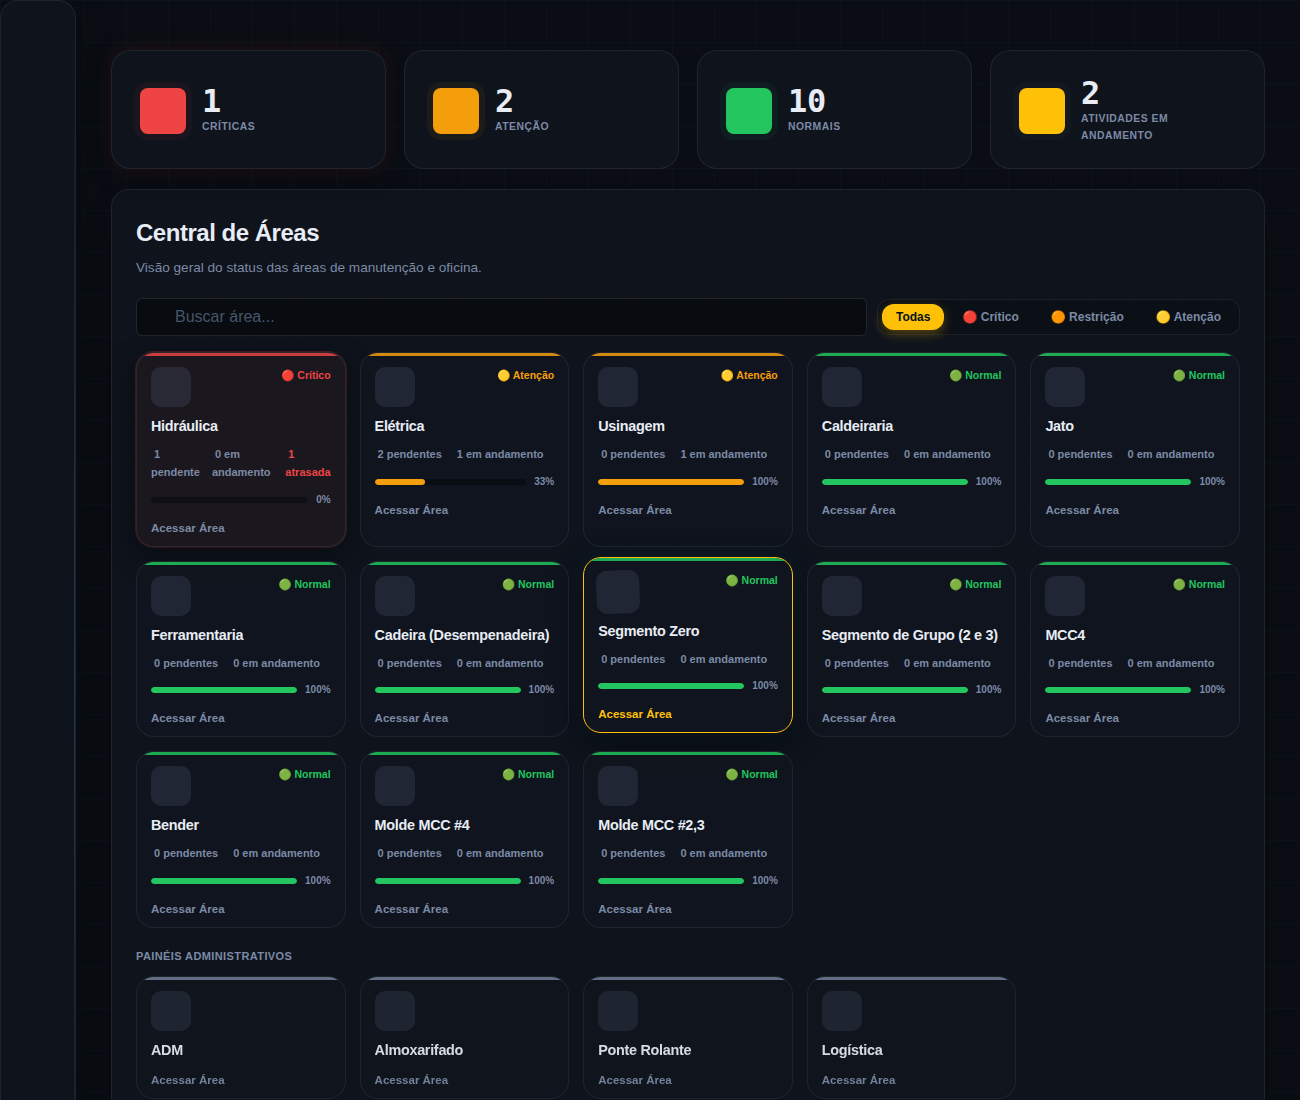
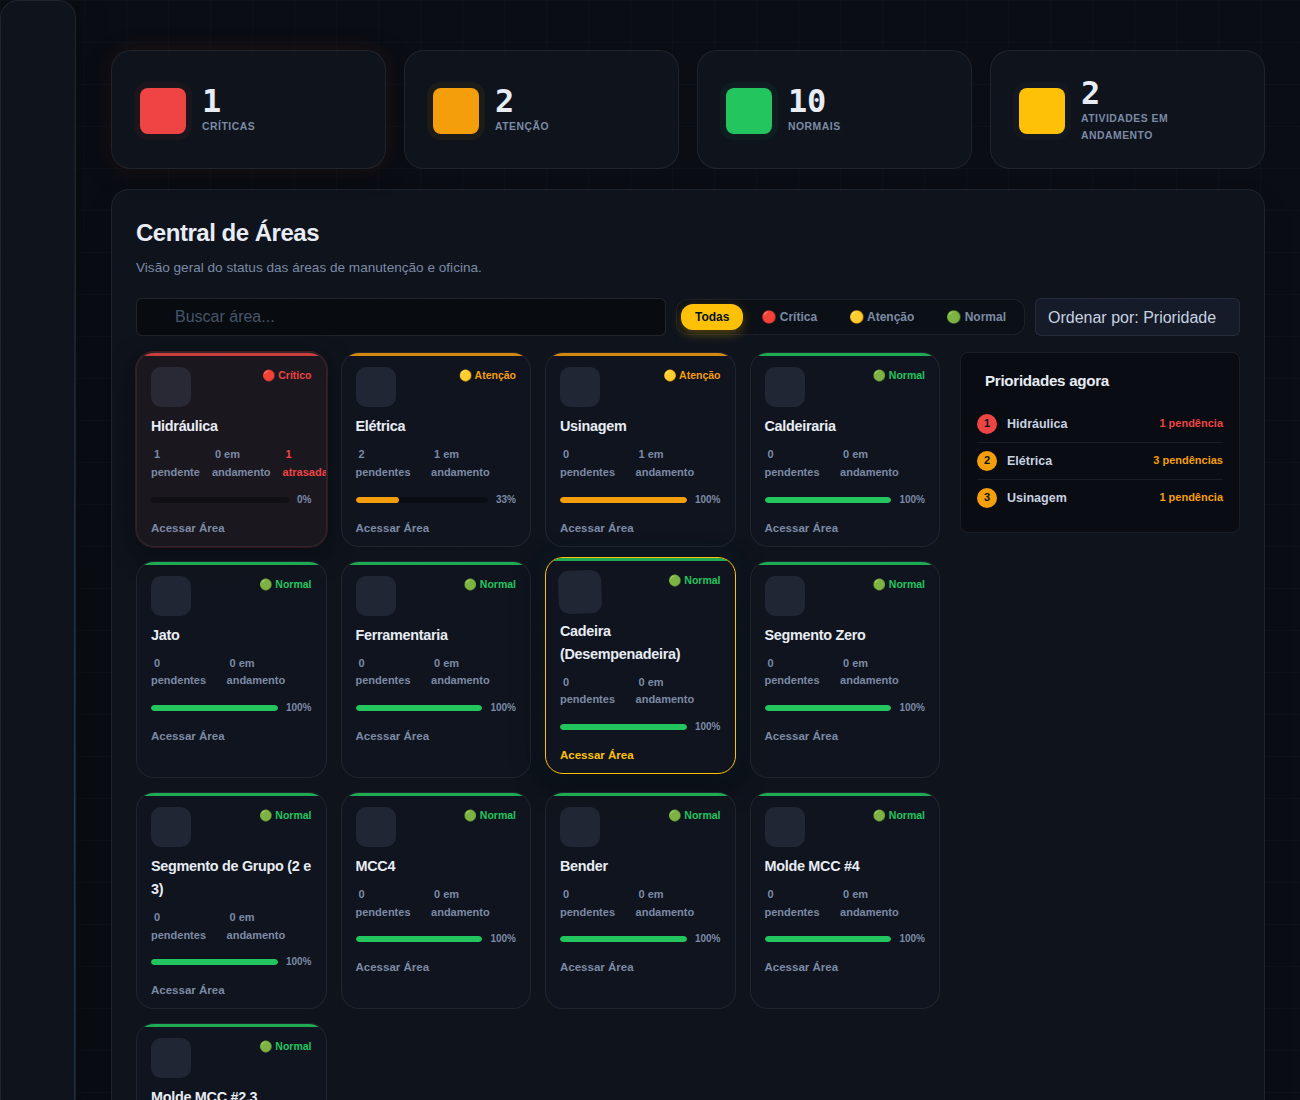
feat: completa Central de Áreas até bater com a referência (prioridades + ordenar + filtros)
Terminando o que ficou faltando da referência mandada pelo usuário
(rodada anterior só tinha feito cabeçalho/KPIs por área/barra de
progresso):

- Painel "Prioridades agora": ranking das 5 áreas mais urgentes
  (Crítico > Atenção, empate por mais pendências), com número, nome e
  contagem de pendências — clicável, vai direto pra área. Não é dado
  novo, é o mesmo cálculo de severidade que já colore os cards, só
  resumido numa lista à parte. Sempre reflete TODAS as áreas, mesmo
  com busca/filtro ativos na grade (mesmo princípio já usado no resumo
  da Central de Notificações).
- Dropdown "Ordenar por": Prioridade (a ordenação por severidade que
  já existia, agora com opção de trocar) ou Nome (A-Z, novo).
- Filtros unificados de 4 pra 3 categorias (Crítica/Atenção/Normal,
  igual a referência) — Restrição funde visualmente dentro de Atenção
  só na Central de Áreas; calcularStatusArea() continua com a
  granularidade original nos outros lugares que a usam (quadro da
  própria área), pra não perder informação lá.

🐛 Bug encontrado e corrigido no caminho: o HTML tinha
`grid.outerHTML = grade + Painéis Administrativos` (2 nós de uma vez)
substituindo #oficina-grade-areas, que virou filho DIRETO do grid de 2
colunas (grade principal | painel de prioridades) depois da mudança de
layout — isso inseria "Painéis Administrativos" como segundo item
desse grid de 2 colunas, empurrando o painel de prioridades pra uma
[…]

diff --git a/JS/script.js b/JS/script.js
@@ -4285,6 +4285,7 @@ function calcularStatusArea(chave) {
 
 let CENTRAL_AREAS_FILTRO_STATUS = '';
 let CENTRAL_AREAS_BUSCA = '';
+let CENTRAL_AREAS_ORDEM = 'prioridade'; // 🆕 'prioridade' (padrão, já existia) | 'nome'
 
 window.filtrarCentralAreas = function(statusLabel, botao) {
     CENTRAL_AREAS_FILTRO_STATUS = statusLabel;
@@ -4298,6 +4299,43 @@ window.buscarCentralAreas = function(valor) {
     renderizarGridCentralAreas();
 };
 
+window.ordenarCentralAreas = function(valor) {
+    CENTRAL_AREAS_ORDEM = valor;
+    renderizarGridCentralAreas();
+};
+
+// 🆕 "Prioridades agora" (referência mandada pelo usuário) — ranking
+// das áreas mais urgentes, sem precisar escanear a grade inteira. Não
+// é dado novo: mesma severidade/pendências que já colorem os cards,
+// só ordenado e resumido numa lista curta. Só entra quem tem pelo
+// menos 1 pendência em aberto (Normal com 0 não é "prioridade").
+function renderizarPrioridadesAgora(todasComStatus) {
+    const container = document.getElementById('oficina-prioridades-lista');
+    if (!container) return;
+
+    const ORDEM_SEVERIDADE = { 'Crítico': 0, 'Atenção': 1, 'Normal': 2 };
+    const prioridades = todasComStatus
+        .filter(v => v.status.emAberto > 0)
+        .sort((a, b) => {
+            const diff = ORDEM_SEVERIDADE[a.status.label] - ORDEM_SEVERIDADE[b.status.label];
+            return diff !== 0 ? diff : b.status.emAberto - a.status.emAberto;
+        })
+        .slice(0, 5);
+
+    if (prioridades.length === 0) {
+        container.innerHTML = `<div class="text-muted" style="text-align:center; padding:16px 0; font-size:13px;"><i class="fas fa-circle-check" style="color:var(--success);"></i> Nenhuma pendência em aberto agora.</div>`;
+        return;
+    }
+
+    container.innerHTML = prioridades.map((v, i) => `
+        <div class="oficina-prioridade-item" onclick="window.abrirAreaOficina('${v.area.chave}')">
+            <span class="oficina-prioridade-num" style="background:${v.status.cor};">${i + 1}</span>
+            <span class="oficina-prioridade-nome">${v.area.nome}</span>
+            <span class="oficina-prioridade-qtd" style="color:${v.status.cor};">${v.status.emAberto} pendênc${v.status.emAberto > 1 ? 'ias' : 'ia'}</span>
+        </div>
+    `).join('');
+}
+
 function renderizarGridCentralAreas() {
     const grid = document.getElementById('oficina-grade-areas');
     if (!grid) return;
@@ -4305,8 +4343,31 @@ function renderizarGridCentralAreas() {
     const areasOficina = AREAS_OFICINA.filter(a => a.tipo === 'oficina');
     const areasAdmin = AREAS_OFICINA.filter(a => a.tipo === 'administrativo');
 
-    let visiveis = areasOficina.map(a => ({ area: a, status: calcularStatusArea(a.chave) }));
+    // 🔧 CORREÇÃO (referência mandada pelo usuário): a referência só tem
+    // 3 níveis de severidade (Crítica/Atenção/Normal), não 4 — o cálculo
+    // em calcularStatusArea() continua com a granularidade original
+    // (Restrição = 5+ itens em aberto, mais grave que Atenção = 1-4) pra
+    // não perder informação nos outros lugares que usam essa função
+    // (quadro da própria área, etc.); só AQUI, na Central de Áreas, o
+    // rótulo exibido funde Restrição dentro de Atenção — mesmo balde
+    // visual da referência.
+    const todasComStatus = areasOficina.map(a => {
+        const status = calcularStatusArea(a.chave);
+        if (status.label === 'Restrição') {
+            status.label = 'Atenção';
+            status.cor = 'var(--warning)';
+            status.emoji = '🟡';
+        }
+        return { area: a, status };
+    });
 
+    // 🆕 "Prioridades agora" sempre reflete TODAS as áreas, mesmo com
+    // busca/filtro ativos na grade — mesmo princípio já usado no resumo
+    // da Central de Notificações (ver atualizarResumoNotificacoes):
+    // filtrar pra focar não devia esconder o que é urgente lá fora.
+    renderizarPrioridadesAgora(todasComStatus);
+
+    let visiveis = todasComStatus;
     if (CENTRAL_AREAS_BUSCA) {
         visiveis = visiveis.filter(v => v.area.nome.toLowerCase().includes(CENTRAL_AREAS_BUSCA));
     }
@@ -4319,11 +4380,18 @@ function renderizarGridCentralAreas() {
     // de atenção primeiro. Ordena por severidade (Crítico > Restrição >
     // Atenção > Normal, empate por mais itens em aberto) — não muda o
     // formato de grid, só a hierarquia de leitura.
-    const ORDEM_SEVERIDADE = { 'Crítico': 0, 'Restrição': 1, 'Atenção': 2, 'Normal': 3 };
-    visiveis.sort((a, b) => {
-        const diff = ORDEM_SEVERIDADE[a.status.label] - ORDEM_SEVERIDADE[b.status.label];
-        return diff !== 0 ? diff : b.status.emAberto - a.status.emAberto;
-    });
+    // 🆕 "Ordenar por" (referência mandada pelo usuário): "Prioridade" é
+    // a ordenação por severidade que já existia (agora com opção pra
+    // trocar, antes era fixa); "Nome" é nova, alfabética simples.
+    if (CENTRAL_AREAS_ORDEM === 'nome') {
+        visiveis.sort((a, b) => a.area.nome.localeCompare(b.area.nome, 'pt-BR'));
+    } else {
+        const ORDEM_SEVERIDADE = { 'Crítico': 0, 'Atenção': 1, 'Normal': 2 };
+        visiveis.sort((a, b) => {
+            const diff = ORDEM_SEVERIDADE[a.status.label] - ORDEM_SEVERIDADE[b.status.label];
+            return diff !== 0 ? diff : b.status.emAberto - a.status.emAberto;
+        });
+    }
 
     // 🆕 Peso visual real pro card crítico (não só a cor da faixa de
     // topo): elevação/sombra mais forte + fundo levemente saturado na
@@ -4408,17 +4476,43 @@ window.carregarOficina = async function() {
             </div>
             <div class="mcc-filter-group" id="central-areas-filtros">
                 <button class="btn-filter-mcc active" onclick="window.filtrarCentralAreas('', this)">Todas</button>
-                <button class="btn-filter-mcc" onclick="window.filtrarCentralAreas('Crítico', this)">🔴 Crítico</button>
-                <button class="btn-filter-mcc" onclick="window.filtrarCentralAreas('Restrição', this)">🟠 Restrição</button>
+                <button class="btn-filter-mcc" onclick="window.filtrarCentralAreas('Crítico', this)">🔴 Crítica</button>
                 <button class="btn-filter-mcc" onclick="window.filtrarCentralAreas('Atenção', this)">🟡 Atenção</button>
+                <button class="btn-filter-mcc" onclick="window.filtrarCentralAreas('Normal', this)">🟢 Normal</button>
             </div>
+            <!-- 🆕 Ordenar por (referência mandada pelo usuário): "Prioridade"
+                 é a ordenação por severidade que já existia (sem opção antes
+                 de mudar); "Nome (A-Z)" é nova. -->
+            <select id="central-areas-ordenar" class="premium-select" style="height:38px; width:auto;" onchange="window.ordenarCentralAreas(this.value)">
+                <option value="prioridade">Ordenar por: Prioridade</option>
+                <option value="nome">Ordenar por: Nome (A-Z)</option>
+            </select>
             ${OPERADOR_LOGADO && OPERADOR_LOGADO.isAdm ? `
                 <button class="btn-outline-neutral" onclick="window.abrirModalAtividadeMassa()">
                     <i class="fas fa-layer-group"></i> Atividade em Massa
                 </button>
             ` : ''}
         </div>
-        <div id="oficina-grade-areas" class="oficina-grade"></div>
+        <div class="oficina-areas-layout">
+            <!-- 🔧 wrapper próprio (não o grid de 2 colunas direto): o JS
+                 troca #oficina-grade-areas por "grade + Painéis
+                 Administrativos" junto (outerHTML com 2 nós de uma vez) —
+                 sem esse wrapper, o segundo nó (Painéis Administrativos)
+                 vira irmão direto dentro do grid de 2 colunas da direita,
+                 empurrando o painel de prioridades pra linha de baixo. -->
+            <div class="oficina-areas-principal">
+                <div id="oficina-grade-areas" class="oficina-grade"></div>
+            </div>
+            <!-- 🆕 "Prioridades agora" (referência mandada pelo usuário):
+                 ranking das áreas mais urgentes, pra não precisar escanear
+                 a grade inteira procurando o que precisa de atenção
+                 primeiro. Não é dado novo — mesmo cálculo de severidade/
+                 pendências que já colore os cards, só resumido em lista. -->
+            <div class="oficina-prioridades-painel">
+                <h3><i class="fas fa-list-ol" style="color:var(--danger);"></i> Prioridades agora</h3>
+                <div id="oficina-prioridades-lista"></div>
+            </div>
+        </div>
     `;
 
     try {

diff --git a/style.css b/style.css
@@ -4134,6 +4134,76 @@ h1, h2, h3, h4, h5, h6 {
     margin: 20px 0 10px;
 }
 
+/* 🆕 Layout com painel "Prioridades agora" (referência mandada pelo
+   usuário) — grade principal + coluna estreita fixa ao lado. Empilha
+   em telas menores (a coluna de prioridades desce pra baixo da grade,
+   não fica espremida do lado). */
+.oficina-areas-layout {
+    display: grid;
+    grid-template-columns: 1fr 280px;
+    gap: 20px;
+    align-items: start;
+}
+@media (max-width: 900px) {
+    .oficina-areas-layout {
+        grid-template-columns: 1fr;
+    }
+}
+
+.oficina-prioridades-painel {
+    background: var(--bg-th);
+    border: 1px solid var(--border-color);
+    border-radius: var(--radius-md);
+    padding: 16px;
+}
+.oficina-prioridades-painel h3 {
+    font-size: 0.95rem;
+    color: var(--text-heading);
+    margin-bottom: 12px;
+    display: flex;
+    align-items: center;
+    gap: 8px;
+}
+.oficina-prioridade-item {
+    display: flex;
+    align-items: center;
+    gap: 10px;
+    padding: 8px 0;
+    border-bottom: 1px solid var(--border-color);
+    cursor: pointer;
+    font-size: 12.5px;
+}
+.oficina-prioridade-item:last-child {
+    border-bottom: none;
+}
+.oficina-prioridade-num {
+    flex-shrink: 0;
+    width: 20px;
+    height: 20px;
+    border-radius: 50%;
+    display: flex;
+    align-items: center;
+    justify-content: center;
+    font-size: 11px;
+    font-weight: 700;
+    color: var(--text-on-primary);
+}
+.oficina-prioridade-nome {
+    flex: 1;
+    min-width: 0;
+    color: var(--text-main);
+    font-weight: 600;
+    overflow: hidden;
+    text-overflow: ellipsis;
+    white-space: nowrap;
+}
+.oficina-prioridade-qtd {
+    flex-shrink: 0;
+    font-weight: 700;
+    font-size: 11px;
+    white-space: nowrap;
+}
+
 .oficina-grade {
     display: grid;
     grid-template-columns: repeat(auto-fill, minmax(190px, 1fr));
